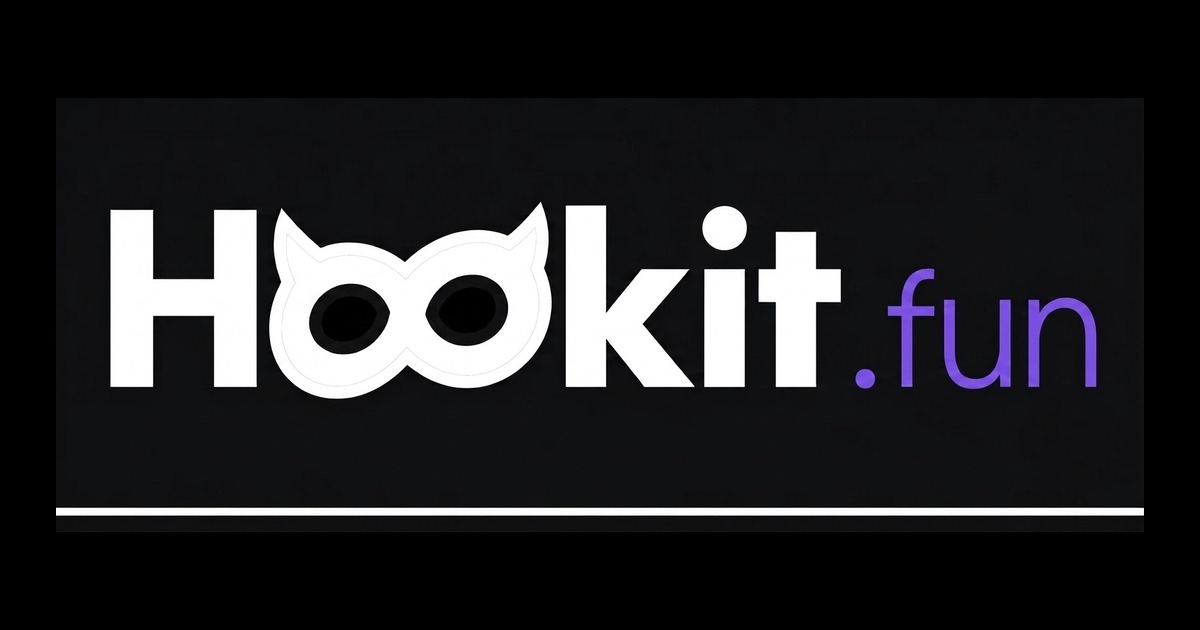
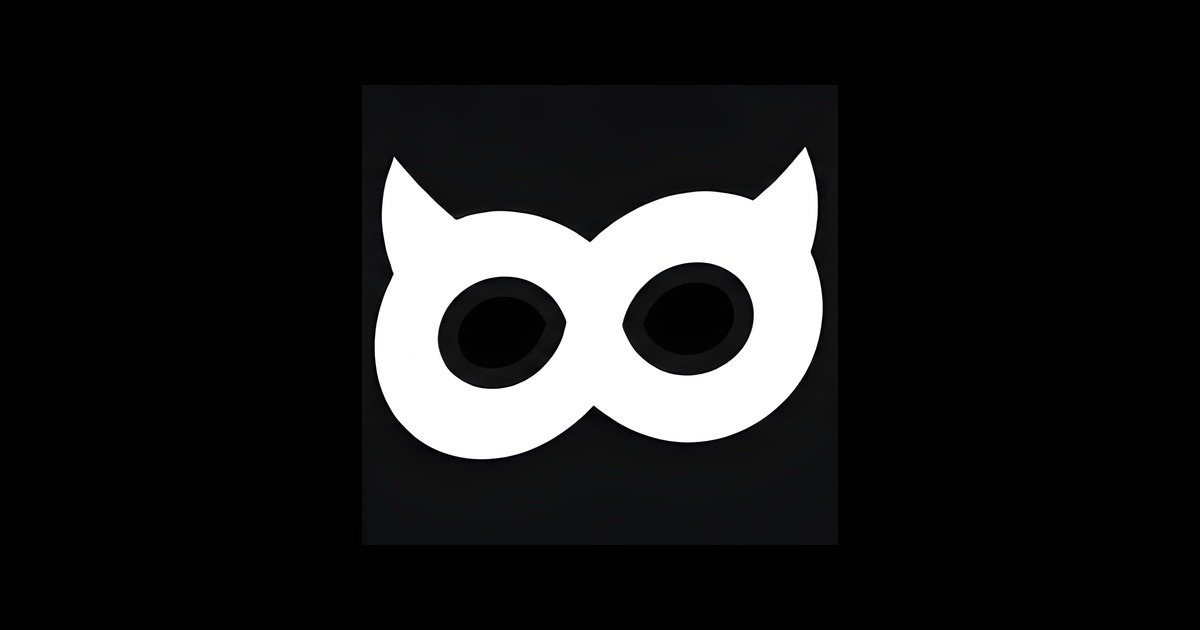
web: use the infinity mark as the site link preview
Replace the Hookit.fun wordmark OG/Twitter cards with the white mask
logo on black so shared links show the mark instead of the brand name.

diff --git a/web/src/lib/site-metadata.ts b/web/src/lib/site-metadata.ts
@@ -10,7 +10,7 @@ export const SITE_OG_IMAGE = {
   url: "/brand/og.jpg",
   width: 1200,
   height: 630,
-  alt: "Hookit.fun",
+  alt: "Hookit",
 } as const;
 
 export const TOKEN_OG_SIZE = { width: 1200, height: 1200 } as const;
